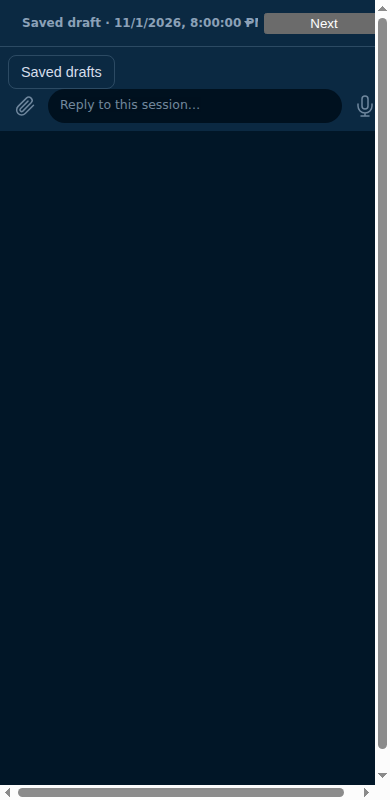
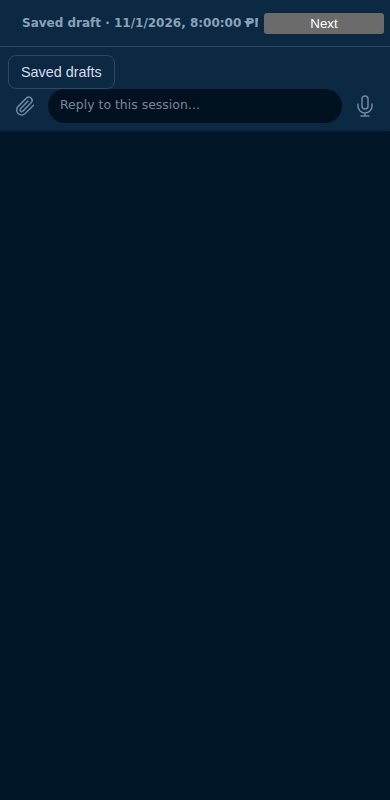
fix(ui): keep saved draft row neutral
- Reuse status spacing without presenting a draft as a warning

Changed region(s): [[0.0, 0.0, 1.0, 1.0]]

diff --git a/packages/ui/src/ConversationComposer.tsx b/packages/ui/src/ConversationComposer.tsx
@@ -370,7 +370,7 @@ export function ConversationComposer({ session, machineReachable, replyDrafts, m
 
   return (
     <footer id={composerId} className="conversation-composer" hidden={hidden} onDragOver={onDragOver} onDrop={onDrop}>
-      {session.stale_draft && !savedUnsupported && savedEmpty !== session.stale_draft.draft_id ? <div className="conversation-stuck"><button type="button" className="btn ghost" onClick={() => void openSavedDrafts()}>Saved drafts</button></div> : null}
+      {session.stale_draft && !savedUnsupported && savedEmpty !== session.stale_draft.draft_id ? <div className="conversation-saved-drafts-row"><button type="button" className="btn ghost" onClick={() => void openSavedDrafts()}>Saved drafts</button></div> : null}
       {savedOpen ? <section className="conversation-saved-drafts" aria-label="Saved drafts">
         <h3>Saved drafts</h3>
         {savedDrafts?.map(item => <button type="button" className="btn ghost" key={item.draft_id} onClick={() => void readSavedDraft(item)}>{new Date(item.saved_at).toLocaleString()} · {item.bytes} bytes</button>)}

diff --git a/packages/ui/test/savedDraft.browser.test.ts b/packages/ui/test/savedDraft.browser.test.ts
@@ -189,7 +189,7 @@ test("saved drafts show, read and restore with confirmation without sending", as
     };
     for (const width of [360, 390, 1280]) {
       const frame = `<!doctype html><meta name="viewport" content="width=device-width,initial-scale=1"><style>${css}</style><div id="root"></div><script>${code}</script>`;
-      const html = `<!doctype html><style>body{margin:0}#result{display:none}</style><pre id="result"></pre><iframe style="border:0;width:${width}px;height:800px" srcdoc="${frame.replaceAll("&", "&amp;").replaceAll('"', "&quot;")}"></iframe>`;
+      const html = `<!doctype html><style>body{margin:0;overflow:hidden}#result{display:none}iframe{display:block}</style><pre id="result"></pre><iframe style="border:0;width:${width}px;height:800px" srcdoc="${frame.replaceAll("&", "&amp;").replaceAll('"', "&quot;")}"></iframe>`;
       const capture = process.env.SAVED_DRAFT_CAPTURE;
       await send("Emulation.setDeviceMetricsOverride", {width, height:800, deviceScaleFactor:1, mobile:false});
       const { frameTree } = await send("Page.getFrameTree");

diff --git a/packages/ui/src/styles.css b/packages/ui/src/styles.css
@@ -1013,6 +1013,14 @@
   margin: 0 0 8px;
 }
 
+.conversation-saved-drafts-row {
+  display: flex;
+  flex-wrap: wrap;
+  align-items: center;
+  gap: 4px 8px;
+  margin-bottom: 8px;
+}
+
 .conversation-composer textarea {
   flex: 1;
   min-width: 0;
